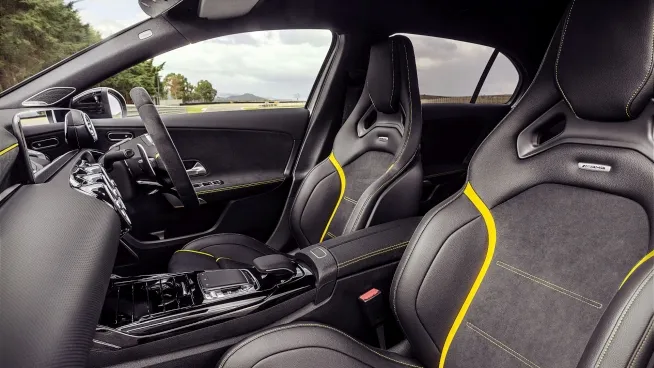
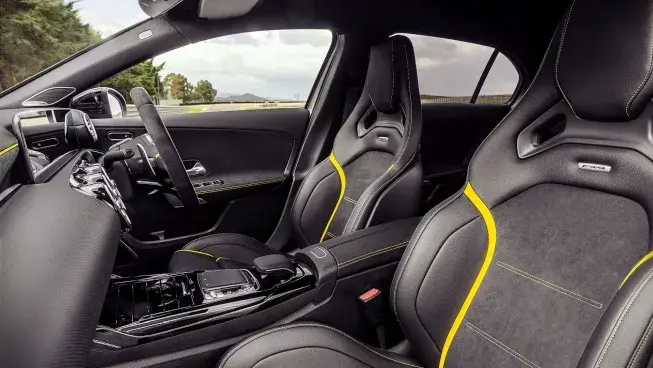
246

diff --git a/pic/ja_mb_img_a.html b/pic/ja_mb_img_a.html
@@ -509,7 +509,7 @@
 						<a href="full/a/w177_amg_f.jpg"><img loading="lazy" src="style/a/w177_amg_f.webp" alt="メルセデス,W177,Aクラス,AMG,フロント" width="492" height="357"></a>
 						<a href="full/a/w177_amg_r.jpg"><img loading="lazy" src="style/a/w177_amg_r.webp" alt="メルセデス,W177,Aクラス,AMG,リヤ" width="713" height="357"></a><br>
 						<a href="full/a/w177_amg_d.jpg"><img loading="lazy" src="style/a/w177_amg_d.webp" alt="メルセデス,W177,Aクラス,AMG,ダッシュボード" width="552" height="368"></a>
-						<a href="full/a/w177_amg_i.jpg"><img loading="lazy" src="style/a/w177_amg_i.webp" alt="メルセデス,w177,Aクラス,AMG,フロントシート" width="654" height="368"></a><br>
+						<a href="full/a/w177_amg_i.jpg"><img loading="lazy" src="style/a/w177_amg_i.webp" alt="メルセデス,w177,Aクラス,AMG,フロントシート" width="653" height="368"></a><br>
 						<figure class="f">
 							<a href="full/a/w177_amg_35_m.jpg"><img loading="lazy" src="style/a/w177_amg_35_m.webp" alt="メルセデス,W177,Aクラス,AMG,エンジン" width="602" height="401"></a>
 							<figcaption>A35</figcaption>

diff --git a/pic/mb_img_a.html b/pic/mb_img_a.html
@@ -509,7 +509,7 @@
 						<a href="full/a/w177_amg_f.jpg"><img loading="lazy" src="style/a/w177_amg_f.webp" alt="Mercedes,W177,A-klasse,AMG,Frontansicht" width="492" height="357"></a>
 						<a href="full/a/w177_amg_r.jpg"><img loading="lazy" src="style/a/w177_amg_r.webp" alt="Mercedes,W177,A-klasse,AMG,Rückansicht" width="713" height="357"></a><br>
 						<a href="full/a/w177_amg_d.jpg"><img loading="lazy" src="style/a/w177_amg_d.webp" alt="Mercedes,W177,A-klasse,AMG,Instrumententafel" width="552" height="368"></a>
-						<a href="full/a/w177_amg_i.jpg"><img loading="lazy" src="style/a/w177_amg_i.webp" alt="Mercedes,w177,A-klasse,AMG,Frontansichtseat" width="654" height="368"></a>
+						<a href="full/a/w177_amg_i.jpg"><img loading="lazy" src="style/a/w177_amg_i.webp" alt="Mercedes,w177,A-klasse,AMG,Frontansichtseat" width="653" height="368"></a>
 						<figure class="f">
 							<a href="full/a/w177_amg_35_m.jpg"><img loading="lazy" src="style/a/w177_amg_35_m.webp" alt="Mercedes,W177,A-klasse,AMG,Motor" width="602" height="401"></a>
 							<figcaption>A35</figcaption>

diff --git a/pic/en_mb_img_a.html b/pic/en_mb_img_a.html
@@ -509,7 +509,7 @@
 						<a href="full/a/w177_amg_f.jpg"><img loading="lazy" src="style/a/w177_amg_f.webp" alt="Mercedes,W177,A-class,AMG,Front view" width="492" height="357"></a>
 						<a href="full/a/w177_amg_r.jpg"><img loading="lazy" src="style/a/w177_amg_r.webp" alt="Mercedes,W177,A-class,AMG,Rear view" width="713" height="357"></a><br>
 						<a href="full/a/w177_amg_d.jpg"><img loading="lazy" src="style/a/w177_amg_d.webp" alt="Mercedes,W177,A-class,AMG,Dashboard" width="552" height="368"></a>
-						<a href="full/a/w177_amg_i.jpg"><img loading="lazy" src="style/a/w177_amg_i.webp" alt="Mercedes,w177,A-class,AMG,frontseat" width="654" height="368"></a><br>
+						<a href="full/a/w177_amg_i.jpg"><img loading="lazy" src="style/a/w177_amg_i.webp" alt="Mercedes,w177,A-class,AMG,frontseat" width="653" height="368"></a><br>
 						<figure class="f">
 							<a href="full/a/w177_amg_35_m.jpg"><img loading="lazy" src="style/a/w177_amg_35_m.webp" alt="Mercedes,W177,A-class,AMG,Engine" width="602" height="401"></a>
 							<figcaption>A35</figcaption>
